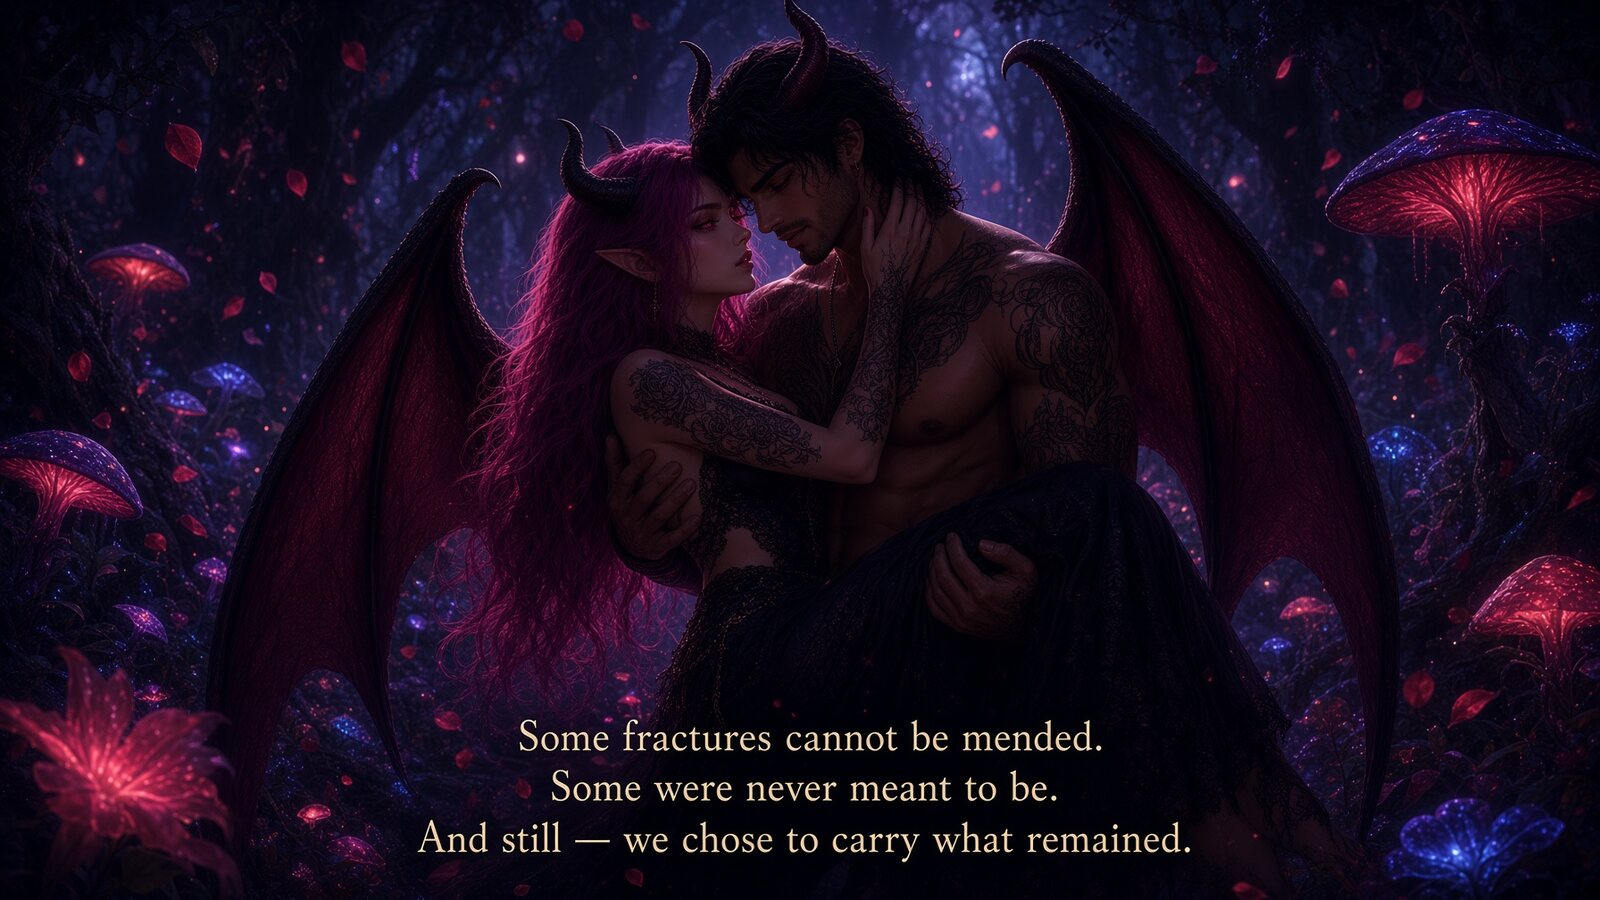
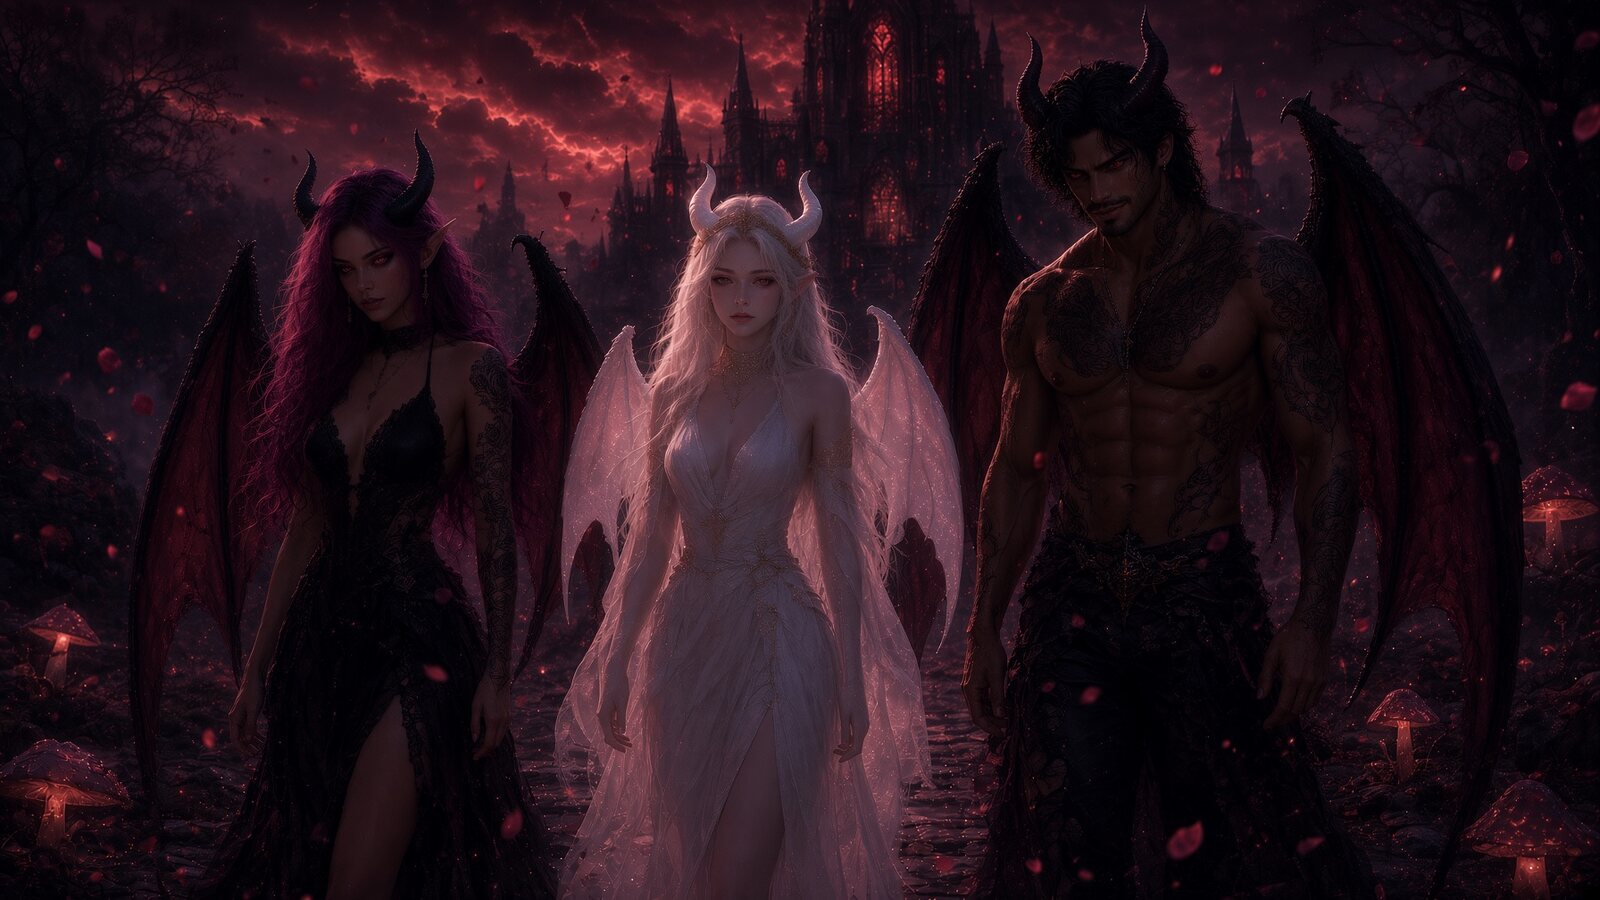
Replace the final plate
Use the new triad walking the Red Places as What We Carry, and match the last page to abyss light.

diff --git a/part2/ending.html b/part2/ending.html
@@ -4,7 +4,7 @@
   <meta charset="UTF-8" />
   <meta name="viewport" content="width=device-width, initial-scale=1" />
   <meta name="description" content="A deluxe gothic graphic novel by Rainbow Rot. Vespera, Seraphine, and Asmodeus in the Garden." />
-  <meta name="theme-color" content="#08060c" />
+  <meta name="theme-color" content="#070208" />
   <link rel="icon" href="../favicon.svg" type="image/svg+xml" />
   <meta property="og:type" content="website" />
   <meta property="og:title" content="— What We Carry — The Second Fracture" />
@@ -16,12 +16,11 @@
   <link href="https://fonts.googleapis.com/css2?family=Cinzel:wght@400;500;600&family=Cormorant+Garamond:ital,wght@0,400;0,500;1,400&display=swap" rel="stylesheet" />
   <link rel="stylesheet" href="../css/style.css" />
 </head>
-<body class="garden">
+<body class="abyss">
   <div class="fog"></div>
-  <div class="petals"></div>
   <div class="bound">
     <main class="spread">
-      <figure class="leaf-art">
+      <figure class="leaf-art wide">
         <img src="../images/part2/final.jpg" alt="What We Carry" />
       </figure>
       <article class="leaf-text">
